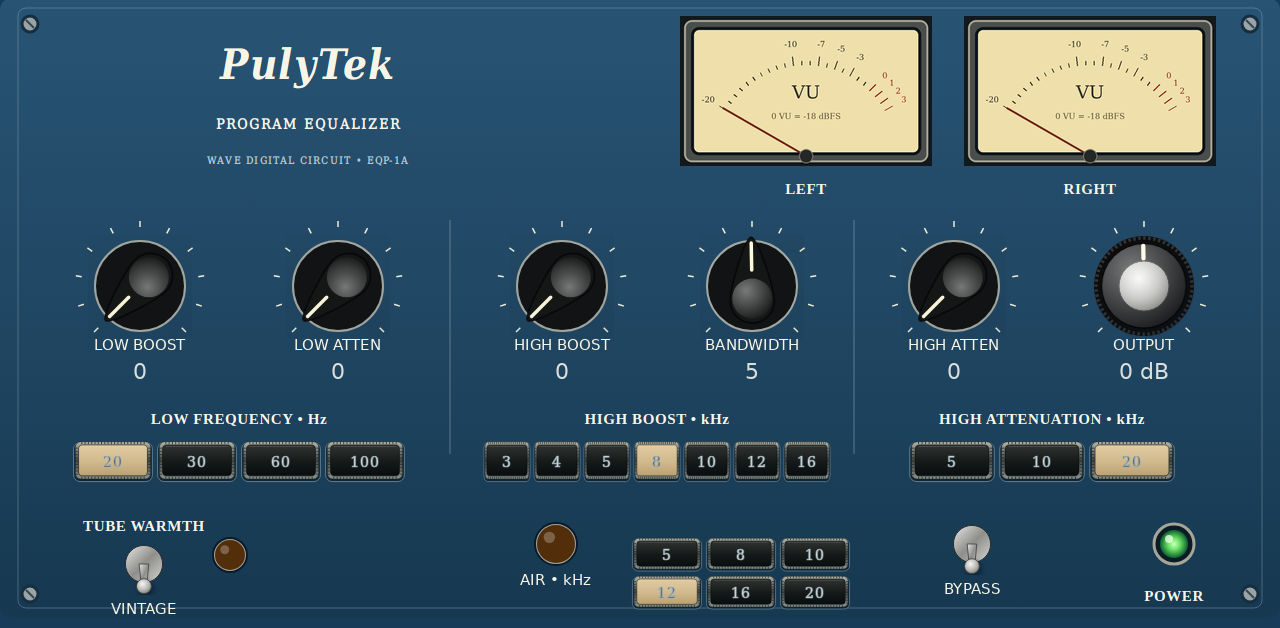
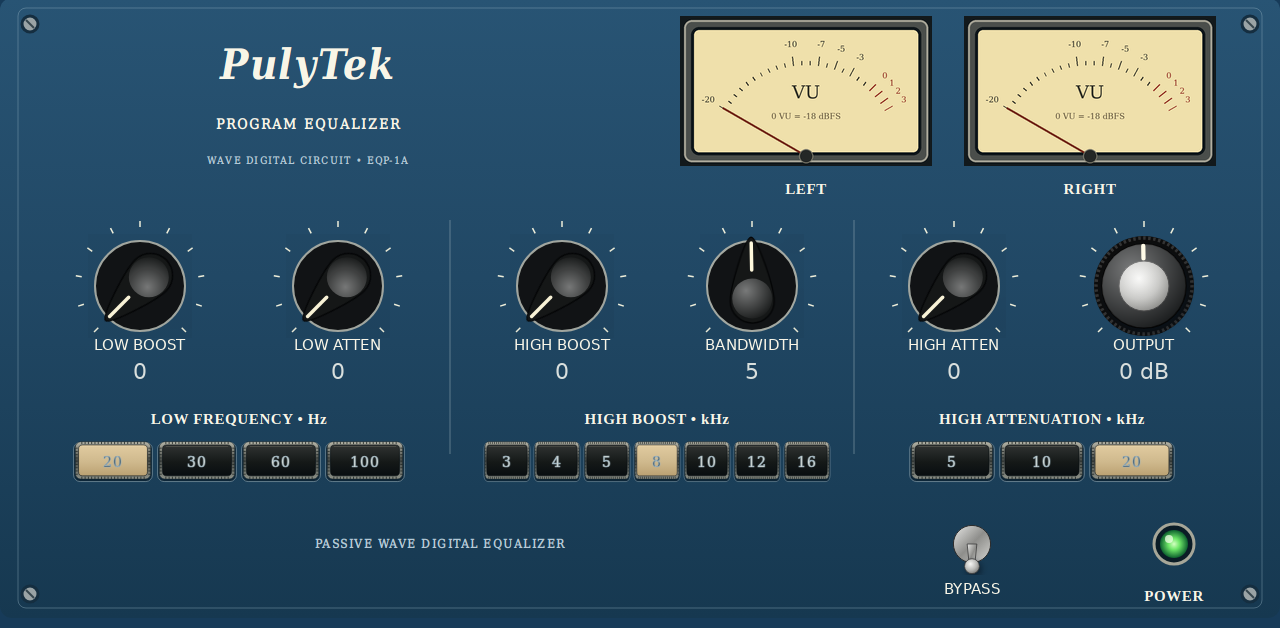
Update previews and document AIR Drive, Mix and pilot state migration

Changed region(s): [[0.25, 0.8169, 0.6875, 0.9682], [0.0625, 0.8169, 0.1562, 0.9984], [0.1562, 0.8471, 0.2188, 0.9076]]

diff --git a/docs/RELEASE.md b/docs/RELEASE.md
@@ -2,7 +2,7 @@ PulyTek is a separate open-source Pultec-style EQ port for the native Akai Force
 
 - Blue vintage panel, Bakelite-style knobs, ribbed selector buttons, warm lamps and stereo VU meters.
 - Upstream EQP-WDF-1A passive WDF circuit by Alberto Barrera / ABSounds, GPLv3.
-- Extra tube-colour switch with DRIVE, WARMTH and continuous wet/dry MIX, six-frequency AIR shelf, output trim and full bypass.
+- Extra tube-colour switch with DRIVE, WARMTH and continuous wet/dry MIX, six-frequency AIR shelf with continuous DRIVE and MIX, output trim and full bypass.
 - Side Mixing on/off, 0–200% stereo width, side level and four side-only parametric bands.
 - Native ARMv7 hard-float VST2 effect, Akai TUI skin, Q-Link mappings, portable installer and complete corresponding source.
 
@@ -11,3 +11,5 @@ Desktop DSP and native host tests passed with sanitizers. ARM loading/audio/stat
 system libraries; that is not a physical-device compatibility guarantee. Read README.md and docs/VALIDATION.md.
 
 The portable ZIP is for Force/MPC; the optional desktop Linux VST3 is a separate CI artifact and is not installed on Force.
+
+0.1.0-rc2 adds a combined Tube & AIR page with Drive and Mix controls. Legacy rc1 tube/EQ state chunks load with the original +3 dB, fully wet AIR defaults.

diff --git a/docs/VALIDATION.md b/docs/VALIDATION.md
@@ -11,7 +11,7 @@ Checked locally on 10 October 2026:
 - ASan/UBSan native host tests: parameters, selectors/data-wheel/Q-Links, independent instances, NULL input,
   accumulated processing, state and concurrent screen/audio access.
 - ARM ELF32 EABI hard-float, Cortex-A17, exported VSTPluginMain, maximum glibc 2.29; C++ runtime linked statically.
-- ARM QEMU smoke test against the owner's existing extracted Force 3.9.1 system libraries: dlopen, 33 parameters,
+- ARM QEMU smoke test against the owner's existing extracted Force 3.9.1 system libraries: dlopen, 35 parameters,
   48 kHz, 257-frame floating-point audio, exact bypass, combined processing, state, reset and destruction.
 - Native skin bounds, bindings, three pages and Q-Link assets; offline visual inspection. Actual touch operation
   and live meter update on hardware are not established by these tests.

diff --git a/docs/INSTALL.md b/docs/INSTALL.md
@@ -1,10 +1,10 @@
-# Install PulyTek 0.1.0-rc1
+# Install PulyTek 0.1.0-rc2
 
 Experimental release candidate for Akai Force / MPC Gen1 running OpenPlugin-compatible firmware.
 The plugin has passed desktop DSP/host tests and ARM emulated loading against Force 3.9.1 libraries.
 **This release has not been tested on physical Force or MPC hardware.**
 
-1. Download `PulyTek-0.1.0-rc1-mpc-armv7.zip` and its SHA256 file from this project's GitHub release.
+1. Download `PulyTek-0.1.0-rc2-mpc-armv7.zip` and its SHA256 file from this project's GitHub release.
 2. Verify the ZIP checksum, unpack the whole folder and copy it to your device.
 3. Save your project. The installer stops/restarts the MPC application and backs up its settings.
 4. In a device root shell, run `sh install.sh` inside the unpacked folder. Use `-y` only to skip its confirmation.
